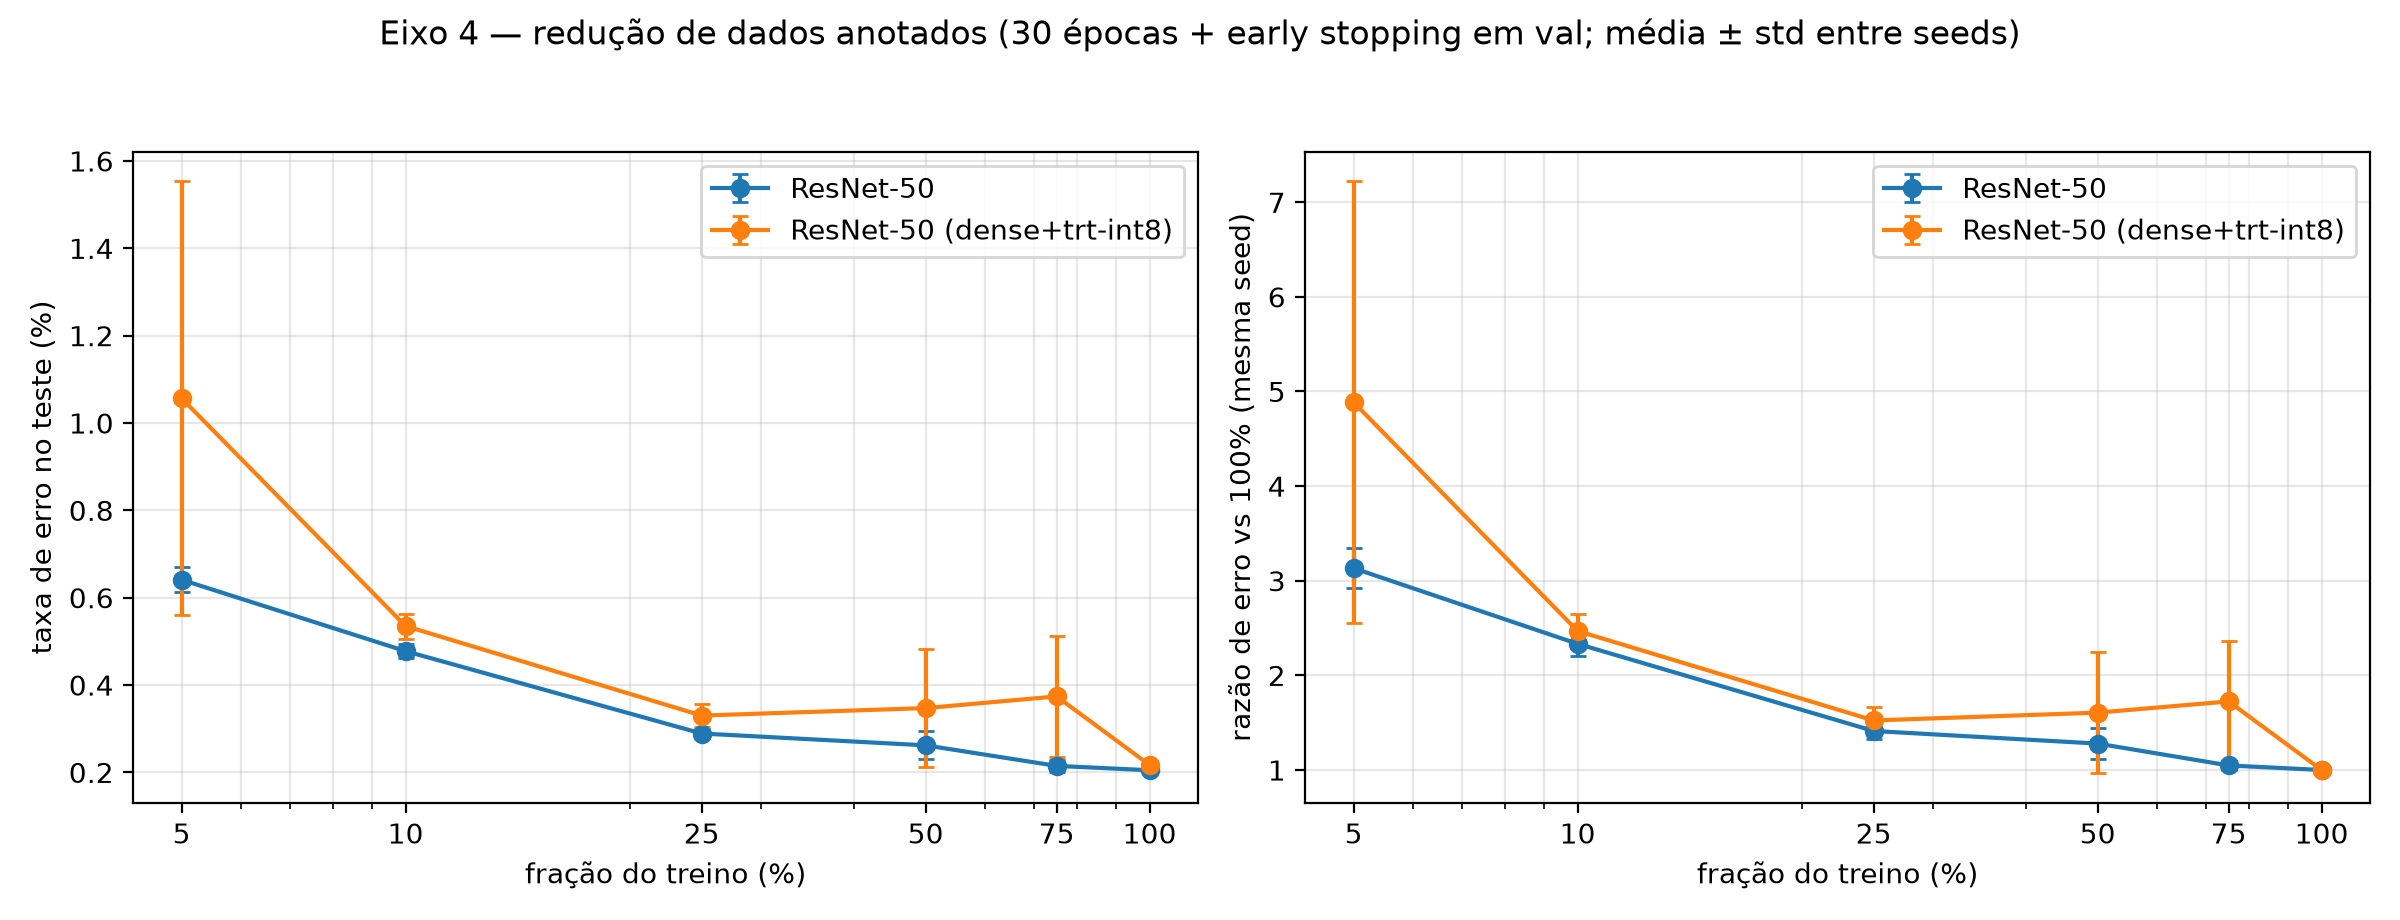
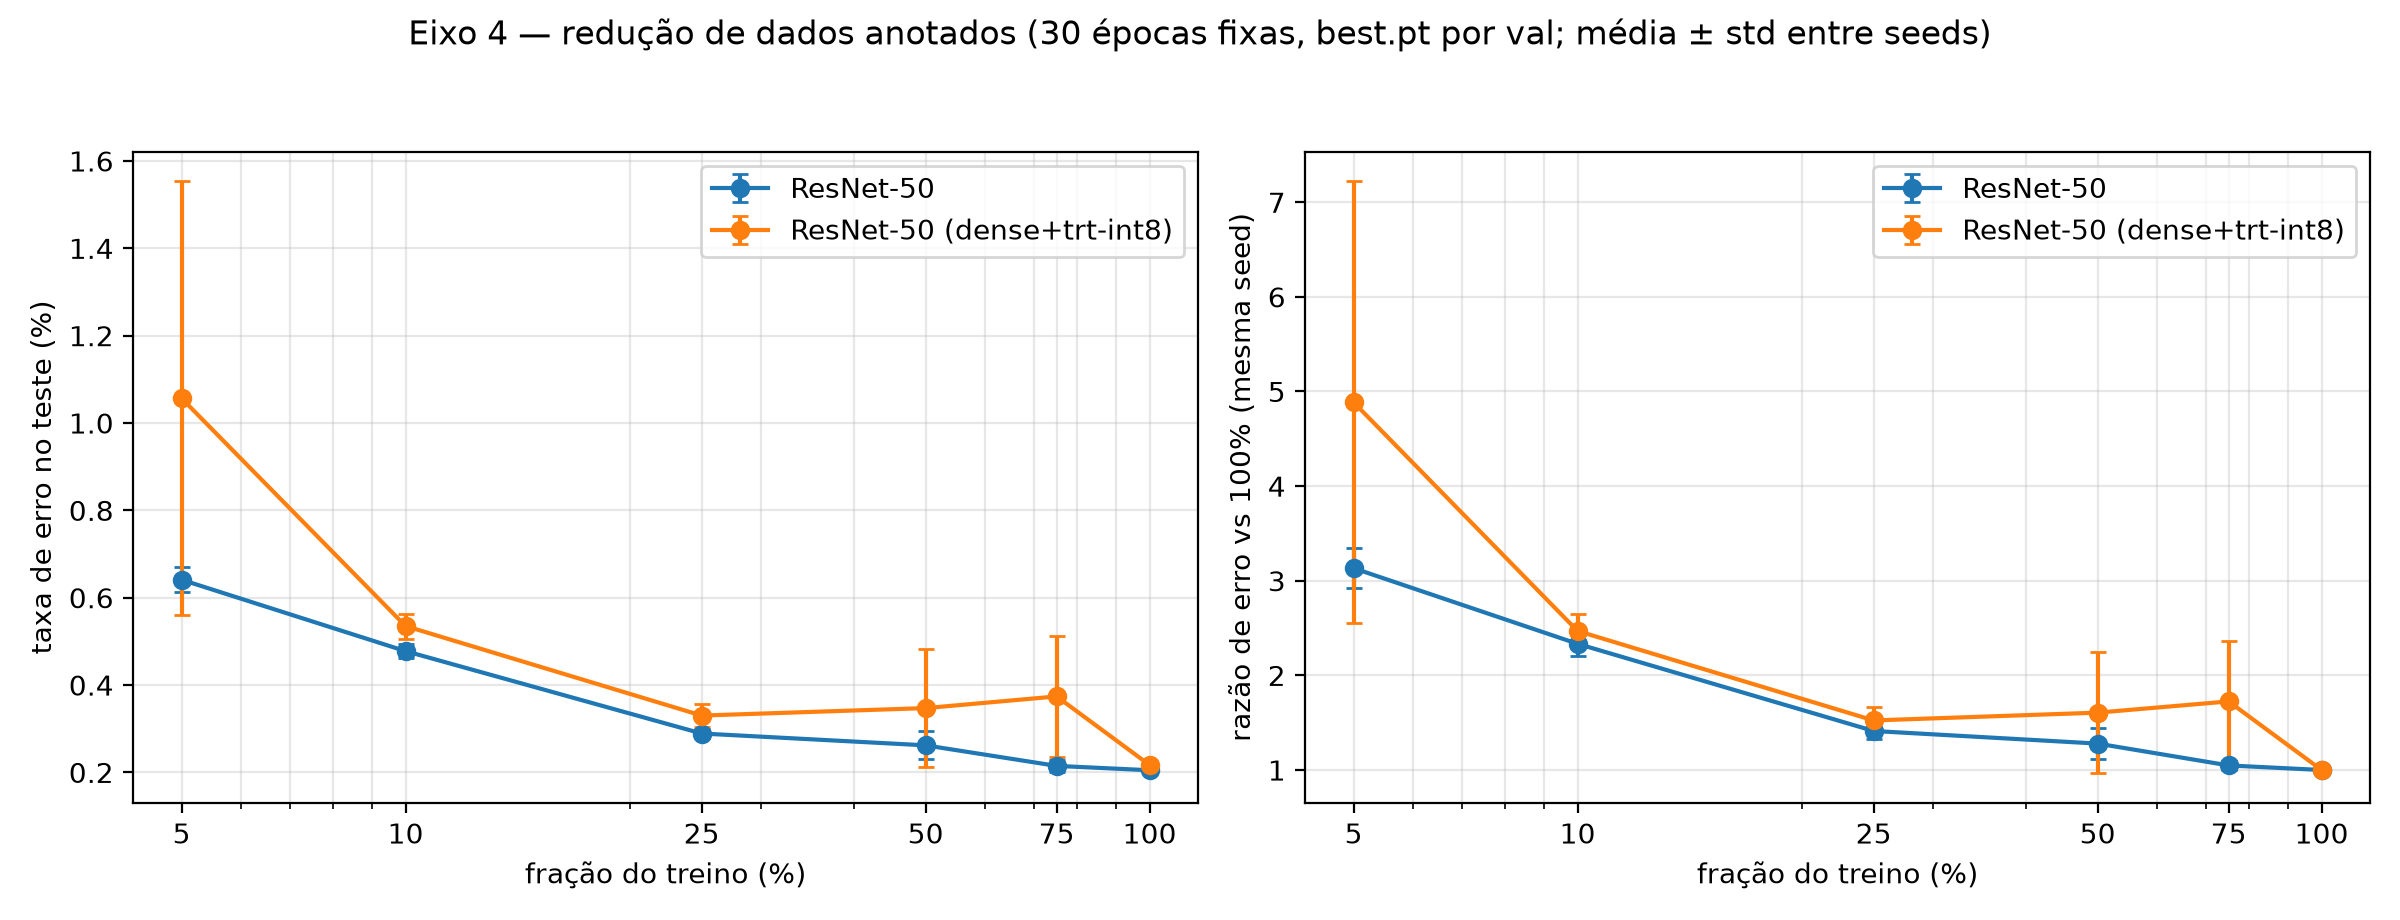
Metodologia e diário: calibração por percentil 99,99 (escolha em val por robustez); figura do eixo 4 com o título corrigido

Changed region(s): [[0.1562, 0.0, 0.8438, 0.0609]]

diff --git a/results/eixo4/make_eixo4.py b/results/eixo4/make_eixo4.py
@@ -98,7 +98,7 @@ def figures(s: pd.DataFrame, df: pd.DataFrame) -> None:
         a.set_xticks([5, 10, 25, 50, 75, 100], [5, 10, 25, 50, 75, 100])
         a.grid(alpha=.3, which="both")
         a.legend()
-    fig.suptitle("Eixo 4 — redução de dados anotados (30 épocas + early stopping em val; média ± std entre seeds)")
+    fig.suptitle("Eixo 4 — redução de dados anotados (30 épocas fixas, best.pt por val; média ± std entre seeds)")
     fig.tight_layout(rect=(0, 0, 1, .94))
     fig.savefig(OUT / "figures/eixo4_curva.pdf")
     fig.savefig(OUT / "figures/eixo4_curva.png", dpi=200)

diff --git a/docs/METODOLOGIA.md b/docs/METODOLOGIA.md
@@ -164,14 +164,16 @@ TensorRT consome diretamente.
 int8 **simétrico** em ativações e pesos (exigência do TensorRT), pesos por canal armazenados já em int8
 com apenas `DequantizeLinear` (o par Q→DQ sobre peso em float não tem kernel no TensorRT), bias mantido
 em float (o TensorRT rejeita `DequantizeLinear` sobre Int32) e a convolução de entrada mantida em float
-(3 canais; sem implementação int8 para o bloco fundido). **Calibração das ativações por entropia (KL)**
-com as mesmas 1.024 imagens de `fit` (seed 0) da PTQ de CPU, de modo que as duas rotas int8 partem do
-mesmo conjunto de calibração. Os calibradores por histograma do ONNX Runtime acumulam todas as ativações
-intermediárias do conjunto inteiro antes de montar os histogramas (30–53 GB para a ResNet-50, dois
-encerramentos por OOM); foram tornados incrementais alimentando o `HistogramCollector` lote a lote, e o
-processo roda sob `systemd-run --scope -p MemoryMax=16G`. A escolha do calibrador foi feita **em `val`**,
-sem tocar no teste: com MinMax, a ResNet-50 int8 errava 131 imagens de val contra ~59 do modelo FP32
-(um outlier dilata a escala de todo o tensor); com entropia, 61. Na DenseNet-121, 67 contra 63.
+(3 canais; sem implementação int8 para o bloco fundido). **Calibração das ativações por percentil 99,99** com 1.024 imagens de `fit`
+(seed 0; nos runs do eixo 4, apenas imagens da fração daquele run), de modo que as duas rotas int8 partem do mesmo tipo de conjunto de
+calibração. **O calibrador foi escolhido em `val` por robustez à amostra de calibração** (`scripts/calib_sweep.sh`,
+`results/eixo2/calib_sweep.csv`): sobre um mesmo modelo (60 erros em `val` em FP32), quatro amostras diferentes de 1.024 imagens dão
+62–64 erros com percentil 99,99, 62–68 com percentil 99,999, **66–689 com entropia (KL)** e 604–966 com MinMax. A entropia, usada numa
+primeira rodada, parecia boa com uma única amostra e revelou-se instável (no teste, o mesmo modelo foi de 194 a 2.596 erros conforme a
+amostra); esses resultados ficam arquivados em `metrics_trt_int8_entropy.json`. Os calibradores por histograma do ONNX Runtime acumulam
+todas as ativações intermediárias do conjunto inteiro antes de montar os histogramas (30–53 GB para a ResNet-50, dois encerramentos por
+OOM); foram tornados incrementais alimentando o `HistogramCollector` lote a lote, e o processo roda sob
+`systemd-run --scope -p MemoryMax=16G`.
 
 **Engines** (`src/compress/trt_build.py`): um perfil de otimização com lote mínimo 1, ótimo e máximo
 32; workspace de 4 GiB; após a construção, o `EngineInspector` registra o histograma de tipos das

diff --git a/STATUS.md b/STATUS.md
@@ -355,3 +355,14 @@ fez 277 erros (177 e 182 nas outras seeds), pior que os de 75% e 50% da mesma se
 de `last.pt` até a época 30 (o resume replica o treino ininterrupto); resultados antigos arquivados em `metrics_es5.json`. CLAUDE.md e METODOLOGIA atualizados.
 **Curva com paciência 5 (descartada, só para registro):** razão de erro vs 100%: 75% 0,89 · 50% 1,08 · 25% 1,19 · 10% 2,17 · 5% 2,63 — distorcida pelo 100% da seed 2.
 **Em andamento:** continuação dos 13 runs (~1,3 h) → int8 TensorRT dos 18 pontos com calibração restrita à fração (~1,2 h).
+
+## 2026-09-21 (seg) — eixo 4 fechado na curva densa; int8 TensorRT recalibrada
+
+**Eixo 4, ResNet-50 densa (3 seeds, 30 épocas fixas em todos os runs):** razão de erro vs 100% da mesma seed —
+75% 1,05 ± 0,05 · 50% 1,28 ± 0,16 · 25% 1,41 ± 0,09 · 10% 2,33 ± 0,13 · 5% 3,13 ± 0,21. Erros a 100%: 177 / 172 / 165. Lei de potência erro ∝ N^-0,38 (R² 0,98).
+**Achado de robustez (int8 TensorRT):** a calibração por entropia do ORT é instável à amostra de calibração — o mesmo modelo foi de 194 a 2.596 erros no teste
+com quatro amostras de 1.024 imagens. Varredura em `val` (denso = 60 erros): **percentil 99,99 → 62–64**; percentil 99,999 → 62–68; entropia → 66–689; MinMax → 604–966.
+Novo padrão: percentil 99,99. **28 células int8 TensorRT refeitas** (6 do eixo 1, 4 de poda+int8, 18 do eixo 4); as antigas ficam em `metrics_trt_int8_entropy.json`.
+A int8 de CPU (FX/fbgemm) não é afetada. A latência int8 medida continua válida (mesmo grafo, só mudam as escalas).
+**Em andamento:** fila int8 (28 células, ~1,5 h) + eixo 2c, controle por LR rewinding (4 runs, com `gpu_wait` — GPU compartilhada com o autor).
+**Incidente menor:** um `rm -f` com glob sem correspondência não rodou (zsh aborta o comando); detectado antes de a fila reaproveitar engines antigas, limpo com `find -delete` e conferido. Regra adicionada ao CLAUDE.md.
